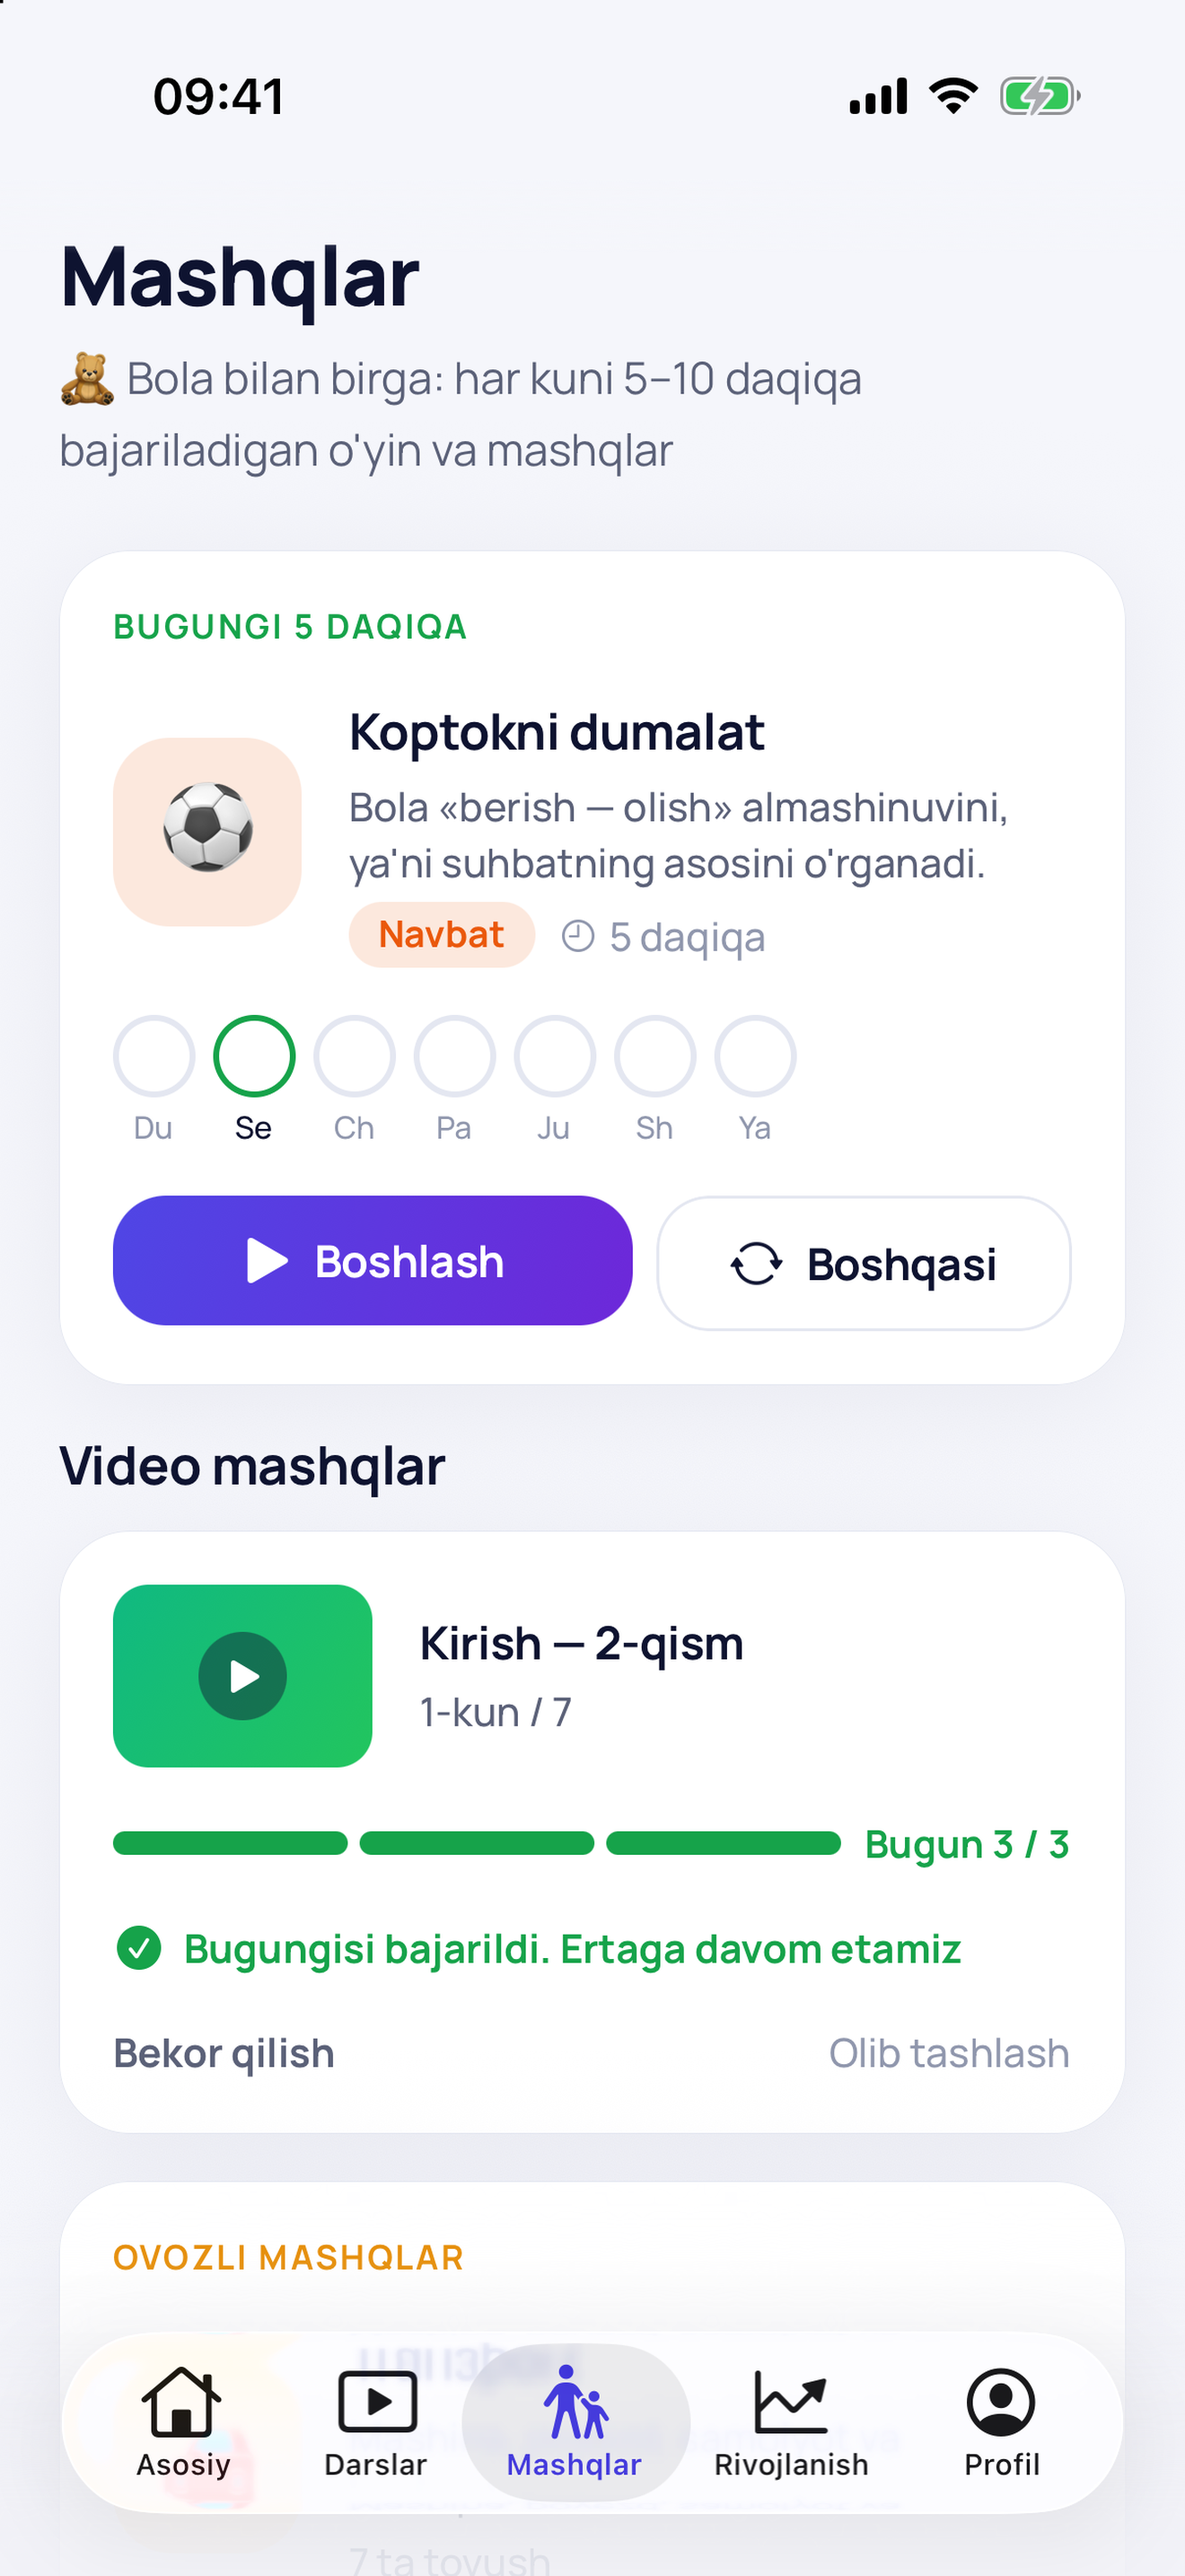
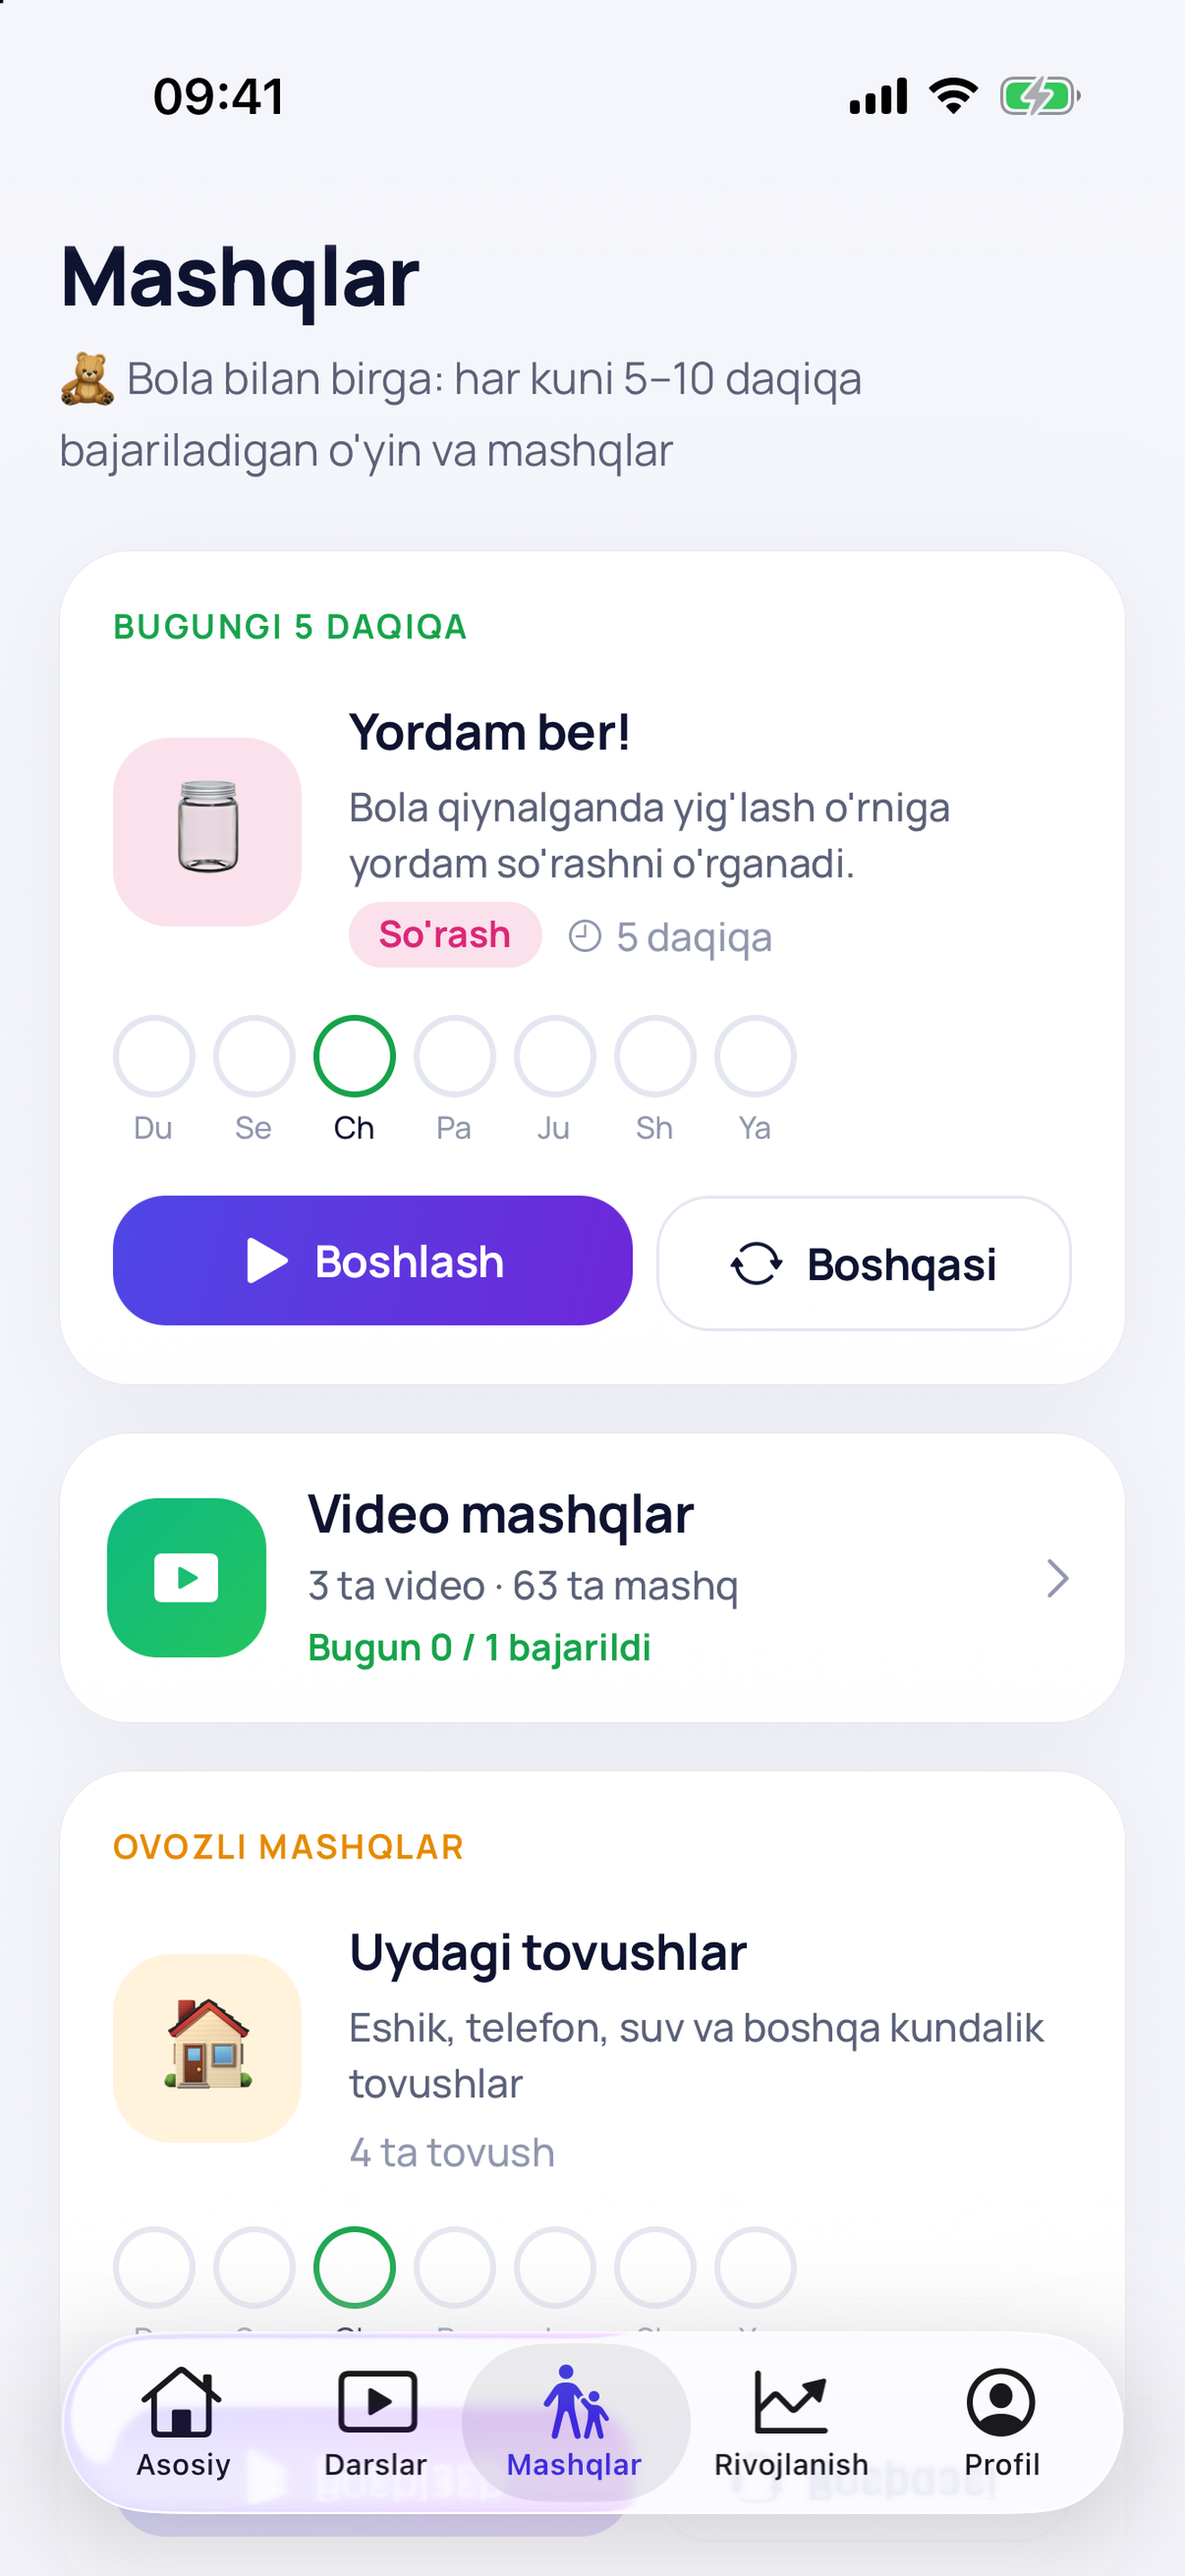
iOS build 9, Android versionCode 6, store screenshots for video exercises

diff --git a/docs/googleplay/GOOGLE-PLAY.md b/docs/googleplay/GOOGLE-PLAY.md
@@ -21,10 +21,10 @@ Hammasi shu yerda: nusxalab joylashtiring. Asosiy til: ro'yxatda **Uzbek** bo'ls
 
 | Nima | Fayl |
 |---|---|
-| Play'ga yuklanadigan build | `docs/googleplay/build/AutizmTest-1.0.0-5.aab` |
+| Play'ga yuklanadigan build | `docs/googleplay/build/AutizmTest-1.0.0-6.aab` |
 | App icon (512×512) | `docs/googleplay/icon-512.png` |
 | Feature graphic (1024×500) | `docs/googleplay/feature-graphic-1024x500.png` |
-| Phone screenshots (7 ta, 9:16) | `docs/googleplay/screenshots-v2/` (tartib: 1, 2, 3, 7, 4, 5, 6) |
+| Phone screenshots (8 ta, 9:16) | `docs/googleplay/screenshots-v2/` (tartib: 1, 2, 3, 7, 4, 8, 5, 6) |
 
 > **Imzolash:** birinchi yuklashda Play **"Play App Signing"**ni taklif qiladi — **qabul qiling** (Google ilovani o'z kaliti bilan imzolaydi; bizning kalit faqat "upload key").
 > Upload key: `~/.android-keys/` (Mac'da, loyihadan tashqarida) — **zaxira nusxasini oling**.
